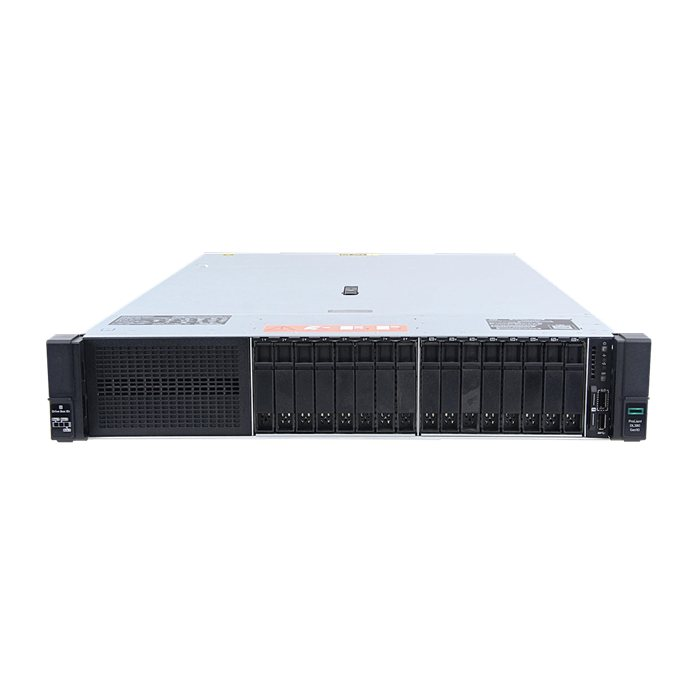
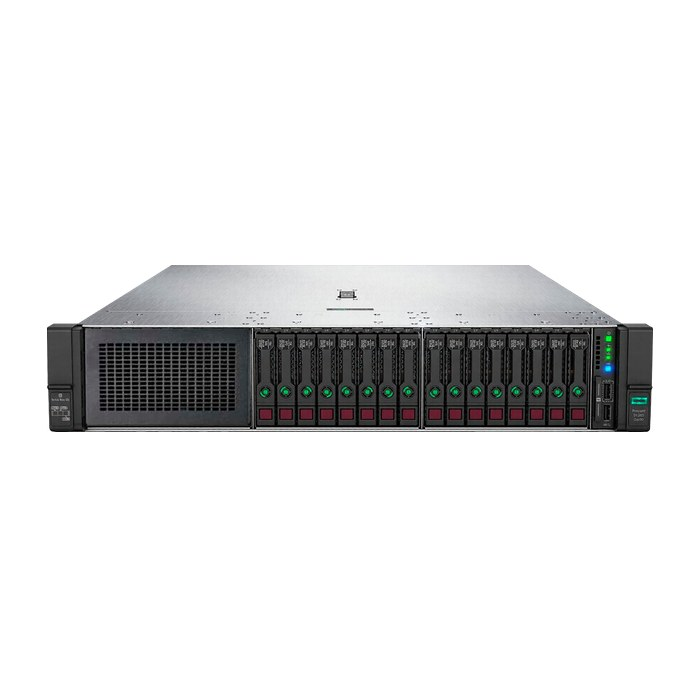
feat(home): hero claro com palavra que troca, destaques e seções repaginadas
- Hero novo: "Economize até 70% em servidores para [virtualização /
  banco de dados / backup / firewall / ERP]", entrada em fade com subida,
  R550 ao centro e R720XD + DL380 Gen10 entrando pelas bordas, com
  reflexo; luz de fundo muda a cada palavra; ocupa 95% da tela.
- Botão "Monte seu servidor" no azul do logo (#0066cc).
- "O que nos diferencia" vira destaques em abas (só texto, apoio em uma
  linha) com título "Sem surpresa. Sem risco."
- Nova seção "Para cada tipo de carga" (virtualização, banco de dados,
  backup, firewall) com WhatsApp por assunto.
- "Hardware original" e faixa final em versão clara, alinhadas à esquerda;
  os dois textos da origem viraram um parágrafo só.
- Fotos de produto do DL380 Gen10 (remaster) e do R720XD (tons ajustados
  para combinar com o R550).

Changed region(s): [[0.06, 0.36, 0.93, 0.63]]

diff --git a/index.html b/index.html
@@ -698,6 +698,146 @@
       .benefits-grid { grid-template-columns: 1fr; }
       .modal-box { padding: 32px 24px; }
     }
+
+    /* ─────────────── DESTAQUES ─────────────── */
+    .dq-section { background: var(--white); }
+    .dq-section .section-header { margin-bottom: 40px; }
+    .dq-tabs { display: inline-flex; flex-wrap: wrap; gap: 6px; padding: 6px; border-radius: 999px; background: var(--light); margin-bottom: 24px; }
+    .dq-tabs button { border: 0; background: transparent; color: var(--muted); font: 500 14px 'Inter', sans-serif; padding: 10px 18px; border-radius: 999px; cursor: pointer; transition: background .25s, color .25s, box-shadow .25s; }
+    .dq-tabs button:hover { color: var(--text); }
+    .dq-tabs button.on { background: #fff; color: var(--text); box-shadow: 0 2px 8px rgba(0,0,0,.08); }
+    .dq-stage { position: relative; height: 340px; border-radius: 28px; background: radial-gradient(ellipse at 50% 70%, #e3effc, var(--light) 70%); overflow: hidden; }
+    .dq-slide { position: absolute; inset: 0; margin: 0; display: flex; align-items: center; justify-content: center; padding: 40px 48px; opacity: 0; transform: translateY(16px) scale(.98); transition: opacity .6s ease, transform .9s cubic-bezier(.2,.7,.2,1); pointer-events: none; }
+    .dq-slide.on { opacity: 1; transform: none; pointer-events: auto; }
+    .dq-slide figcaption { text-align: center; max-width: 100%; }
+    .dq-slide figcaption b { display: block; font-size: clamp(34px, 4.6vw, 60px); font-weight: 800; letter-spacing: -0.045em; line-height: 1.05; color: var(--text); margin-bottom: 18px; }
+    .dq-slide figcaption span { display: block; font-size: clamp(17px, 1.6vw, 21px); line-height: 1.55; color: var(--muted); white-space: nowrap; margin: 0 auto; }
+
+    /* ─────────────── TIPOS DE CARGA ─────────────── */
+    .cg-section { background: var(--white); }
+    .cg-grid { display: grid; grid-template-columns: repeat(4, 1fr); gap: 12px; margin-top: 48px; }
+    .cg-card { display: flex; flex-direction: column; background: var(--light); border-radius: 20px; padding: 28px 24px 26px; text-decoration: none; transition: background .2s, transform .2s; }
+    .cg-card:hover { background: #ebf3fc; transform: translateY(-2px); }
+    .cg-ico { color: #0066cc; margin-bottom: 20px; }
+    .cg-card h3 { font-size: 19px; font-weight: 600; letter-spacing: -0.02em; color: var(--text); margin-bottom: 6px; }
+    .cg-card p { font-size: 14px; line-height: 1.6; color: var(--muted); flex: 1; margin-bottom: 16px; }
+    .cg-link { font-size: 14px; font-weight: 500; color: #0066cc; display: inline-flex; gap: 3px; transition: gap .15s; }
+    .cg-link::after { content: '›'; font-size: 17px; line-height: 1; }
+    .cg-card:hover .cg-link { gap: 6px; }
+
+    @media (max-width: 960px) {
+      .cg-grid { grid-template-columns: 1fr 1fr; }
+    }
+    @media (max-width: 600px) {
+      .cg-grid { grid-template-columns: 1fr; }
+      .dq-tabs { display: flex; flex-wrap: nowrap; overflow-x: auto; border-radius: 18px; scrollbar-width: none; }
+      .dq-tabs button { white-space: nowrap; }
+      .dq-stage { height: 300px; }
+      .dq-slide { padding: 28px 22px; }
+      .dq-slide figcaption span { white-space: normal; }
+    }
+
+    /* ─────────────── HERO: palavra que troca ─────────────── */
+    .hv { position: relative; height: 95vh; min-height: 700px; background: radial-gradient(ellipse 60% 26% at 50% 66%, rgba(231,241,253,1) 0%, rgba(231,241,253,0) 70%), linear-gradient(180deg, #ffffff 0%, #ffffff 35%, #f5f5f7 72%, #f5f5f7 100%); }
+    .hv-sticky { position: relative; height: 100%; overflow: hidden; display: flex; flex-direction: column; align-items: center; text-align: center; padding: calc(44px + 10vh) 24px 0; }
+    .hv-copy { position: relative; z-index: 3; will-change: transform, opacity; }
+    .hv-eyebrow { font-size: 13px; font-weight: 600; letter-spacing: .08em; text-transform: uppercase; color: var(--blue); margin-bottom: 16px; }
+    .hv-title { font-size: clamp(44px, 6.4vw, 88px); font-weight: 800; letter-spacing: -0.05em; line-height: 1.04; color: var(--text); margin-bottom: 18px; }
+    .hv-line { display: block; }
+    .hv-line2 { font-size: .62em; letter-spacing: -0.04em; margin-top: .12em; }
+    .hv-w { display: inline-block; overflow: hidden; vertical-align: bottom; padding: 0 .02em .1em; margin-bottom: -.1em; }
+    .hv-w > span { display: inline-block; }
+    .hv-grad { font-style: normal; }
+    .hv-title { animation: hvFade 1s cubic-bezier(.25,.8,.25,1) both .2s; }
+
+    .hv-rot { display: inline-grid; grid-template-columns: minmax(0, 1fr); transition: width .7s cubic-bezier(.2,.75,.2,1); vertical-align: bottom; clip-path: inset(0 -60vw); text-align: left; padding-bottom: .1em; margin-bottom: -.1em; }
+    .hv-rot-item { grid-area: 1 / 1; justify-self: center; color: #0066cc; transform: translateY(110%); opacity: 0; transition: transform .7s cubic-bezier(.2,.75,.2,1), opacity .7s ease; white-space: nowrap; }
+    .hv-rot-item.on { transform: none; opacity: 1; }
+    .hv-rot-item.out { transform: translateY(-110%); opacity: 0; }
+    @keyframes hvFadeOnly { to { opacity: 1; } }
+
+    .hv-sub { font-size: clamp(18px, 2vw, 22px); color: var(--muted); margin-bottom: 28px; }
+    .hv-ctas { display: flex; align-items: center; justify-content: center; gap: 28px; flex-wrap: wrap; }
+    .hv-btn { border: 0; font-family: inherit; cursor: pointer; background: #0066cc; color: #fff; }
+    .hv-btn:hover { background: #5bb8ff; color: #fff; }
+    .hv-link { color: var(--blue); font-size: 15px; text-decoration: none; display: inline-flex; gap: 3px; align-items: center; transition: gap .15s; }
+    .hv-link::after { content: '›'; font-size: 18px; }
+    .hv-link:hover { gap: 6px; }
+    .hv-fade { animation: hvFade 1s cubic-bezier(.25,.8,.25,1) both; animation-delay: var(--d, 0s); }
+    @keyframes hvFade { from { opacity: 0; transform: translateY(24px); } to { opacity: 1; transform: none; } }
+
+    .hv-prod { position: absolute; left: 50%; bottom: 13vh; width: min(1100px, 94vw); transform: translateX(-50%); z-index: 2; will-change: transform; }
+    .hv-prod { height: min(28vh, 280px); }
+    @property --lc { syntax: '<color>'; inherits: false; initial-value: rgba(0,102,204,.35); }
+    .hv-light { position: absolute; left: var(--lx, 50%); bottom: 18%; width: 90%; height: 160%; transform: translateX(-50%); background: radial-gradient(ellipse at center, var(--lc, rgba(0,102,204,.35)), transparent 62%); filter: blur(10px); transition: left 1.6s cubic-bezier(.2,.7,.2,1), --lc 1.4s ease; pointer-events: none; z-index: 0; }
+    .hv-pic { position: absolute; inset: 0; z-index: 1; display: flex; align-items: flex-end; justify-content: center; opacity: 0; transform: translateY(26px) scale(.95); transition: opacity .7s ease, transform .9s cubic-bezier(.2,.75,.2,1); pointer-events: none; }
+    .hv-pic.on { opacity: 1; transform: none; }
+    .hv-pic.out { opacity: 0; transform: translateY(-14px) scale(.97); }
+    .hv-pic img { position: relative; display: block; height: auto; max-height: 100%; -webkit-box-reflect: below 2px linear-gradient(transparent 70%, rgba(255,255,255,.25)); filter: drop-shadow(0 26px 30px rgba(10,46,92,.18)); animation: hvRise 1.5s cubic-bezier(.16,.8,.2,1) both .6s; }
+    .hv-pic img.hv-wide { width: 100%; }
+    .hv-main { left: 25%; right: 25%; }
+    /* laterais: mesma altura (são 2U), base alinhada, mesma faixa visível de cada lado */
+    .hv-side { position: absolute; bottom: 13%; z-index: 0; transform-origin: center bottom; opacity: 0; animation-duration: 1.7s; animation-timing-function: cubic-bezier(.16,.8,.2,1); animation-fill-mode: both; animation-delay: 1.1s; }
+    .hv-side { width: 41.8%; }
+    .hv-side img { display: block; width: 100%; height: auto; filter: brightness(.94) drop-shadow(0 18px 22px rgba(10,46,92,.14)); -webkit-box-reflect: below 2px linear-gradient(transparent 70%, rgba(255,255,255,.25)); }
+    .hv-side-l { left: 0; animation-name: hvSideL; }
+    .hv-side-r { right: 0; animation-name: hvSideR; }
+    @keyframes hvSideL { from { opacity: 0; transform: translateX(-60vw); } 30% { opacity: 1; } to { opacity: 1; transform: none; } }
+    @keyframes hvSideR { from { opacity: 0; transform: translateX(60vw); } 30% { opacity: 1; } to { opacity: 1; transform: none; } }
+    .hv-pic img.hv-small { width: 44%; }
+    .hv-pic img.hv-tall { width: auto; height: 100%; }
+    @keyframes hvRise { from { opacity: 0; transform: translateY(90px) scale(.96); } to { opacity: 1; transform: none; } }
+    .hv-caption { display: none; position: absolute; left: 0; right: 0; top: calc(44px + 14vh); z-index: 3; font-size: clamp(22px, 2.6vw, 32px); font-weight: 700; letter-spacing: -0.03em; color: var(--muted); opacity: 0; transform: translateY(20px); transition: opacity .6s ease, transform .6s ease; padding: 0 24px; }
+    .hv-caption b { color: var(--text); }
+    .hv-caption.on { opacity: 1; transform: none; }
+
+    @media (max-width: 600px) {
+      .hv { height: 95vh; }
+      .hv-prod { width: 96vw; bottom: 12vh; height: 26vh; }
+      .hv-line2 { font-size: .7em; }
+    }
+    @media (prefers-reduced-motion: reduce) {
+      .hv-side { animation: none; opacity: 1; }
+      .hv-side-l, .hv-side-r { transform: none; }
+      .hv { height: auto; }
+      .hv-sticky { position: relative; height: auto; min-height: 0; padding-bottom: 40vh; }
+      .hv-title, .hv-fade, .hv-pic img, .hv-rot { animation: none; transform: none; opacity: 1; }
+      .hv-caption { display: none; }
+    }
+
+    /* ─────────────── BLOCOS CLAROS ─────────────── */
+    .lt-block { background: var(--light) !important; }
+    .lt-block .eyebrow { color: var(--blue) !important; }
+    .lt-block .headline { color: var(--text) !important; }
+    .lt-block .body-text { color: var(--muted) !important; }
+    .lt-block .split-link { color: var(--blue) !important; }
+    .lt-block .split-box { background: #fff; border: 0; box-shadow: 0 20px 50px rgba(10,46,92,.08); }
+    .lt-block .split-box p { color: var(--muted); }
+    .lt-final { position: relative; overflow: hidden; background: radial-gradient(ellipse 60% 70% at 20% 120%, #dcebfc 0%, rgba(220,235,252,0) 70%), #fff !important; }
+    .lt-final > .wrap { position: relative; }
+    .lt-final .eyebrow { color: var(--blue) !important; }
+    .lt-final h2 { color: var(--text) !important; }
+    .lt-final .body-text { color: var(--muted) !important; }
+    .lt-final .cta-actions { justify-content: flex-start; }
+    .lt-final .btn-primary { background: #0066cc !important; color: #fff !important; }
+    .lt-final .btn-primary:hover { background: #5bb8ff !important; }
+    .lt-final .btn-secondary { color: var(--muted) !important; }
+    .lt-final .btn-secondary:hover { color: var(--text) !important; }
+
+    /* ─────────────── ORIGEM REPAGINADA ─────────────── */
+    .og-section { background: radial-gradient(ellipse 55% 60% at 15% 0%, #e7f1fd 0%, rgba(231,241,253,0) 70%), var(--light); }
+    .og-wrap { }
+    .og-section .headline { margin: 0 0 22px; }
+    .og-text { font-size: clamp(17px, 1.6vw, 20px); line-height: 1.7; color: var(--muted); max-width: 720px; margin: 0 0 28px; }
+    .og-points { display: grid; grid-template-columns: repeat(3, 1fr); gap: 14px; margin-bottom: 40px; }
+    .og-points div { background: #fff; border-radius: 20px; padding: 26px 22px; display: flex; flex-direction: column; align-items: flex-start; gap: 6px; box-shadow: 0 10px 30px rgba(10,46,92,.06); }
+    .og-points span { width: 44px; height: 44px; border-radius: 14px; background: #e3effc; color: #0066cc; display: flex; align-items: center; justify-content: center; margin-bottom: 8px; }
+    .og-points b { font-size: 17px; font-weight: 600; color: var(--text); letter-spacing: -0.01em; }
+    .og-points small { font-size: 14px; color: var(--muted); line-height: 1.5; }
+    .og-link { display: inline-flex; align-items: center; gap: 3px; color: #0066cc; font-size: 17px; text-decoration: none; transition: gap .15s; }
+    .og-link::after { content: '›'; font-size: 20px; }
+    .og-link:hover { gap: 7px; }
+    @media (max-width: 760px) { .og-points { grid-template-columns: 1fr; } }
   </style>
 </head>
 <body>
@@ -718,20 +858,29 @@
   </nav>
 
 <!-- HERO -->
-  <section class="hero" id="hero">
-    <div class="hero-scene" aria-hidden="true">
-      <div class="hero-scene-floor"></div>
-      <div class="hero-beam-container" id="heroBeamContainer"></div>
-    </div>
-    <p class="hero-eyebrow">Hardware enterprise seminovo</p>
-    <h1>Economize até 70%<br>em servidores.</h1>
-    <h2>Testados e prontos para produção.</h2>
-    <div class="hero-actions">
-      <button type="button" class="btn-primary btn-quiz" id="quizOpen">Monte seu servidor</button>
+  <section class="hv" id="hero" data-hv>
+    <div class="hv-sticky">
+      <div class="hv-copy">
+        <p class="hv-eyebrow hv-fade" style="--d:.05s">Hardware enterprise seminovo</p>
+        <h1 class="hv-title">
+          <span class="hv-line"><span class="hv-w"><span style="--i:0">Economize</span></span> <span class="hv-w"><span style="--i:1">até</span></span> <span class="hv-w"><span style="--i:2"><em class="hv-grad">70%</em></span></span></span>
+          <span class="hv-line hv-line2"><span class="hv-w"><span style="--i:3">em servidores para</span></span> <span class="hv-rot" aria-live="polite"><span class="hv-rot-item on">virtualização.</span><span class="hv-rot-item">banco de dados.</span><span class="hv-rot-item">backup.</span><span class="hv-rot-item">firewall.</span><span class="hv-rot-item">ERP.</span></span></span>
+        </h1>
+        <p class="hv-sub hv-fade" style="--d:.55s">Peça por peça, do jeito que sua empresa precisa.</p>
+        <div class="hv-ctas hv-fade" style="--d:.7s">
+          <button type="button" class="btn-primary btn-quiz hv-btn" id="quizOpen">Monte seu servidor</button>
+          <a href="https://wa.me/551120535313?text=Ol%C3%A1%21%20Vim%20pelo%20site%20da%20Super%20Servers%20e%20gostaria%20de%20falar%20com%20um%20especialista%20sobre%20servidores." target="_blank" class="hv-link">Falar no WhatsApp</a>
+        </div>
+      </div>
+      <div class="hv-prod">
+        <div class="hv-light" aria-hidden="true"></div>
+        <div class="hv-side hv-side-l"><img src="produtos/hero-r720xd.webp" alt="" width="936" height="270"></div>
+        <div class="hv-side hv-side-r"><img src="produtos/hero-dl380g10.webp" alt="" width="1034" height="285"></div>
+        <div class="hv-pic hv-main on"><img src="produtos/hero-r550.webp" alt="Servidor Dell PowerEdge em rack" class="hv-wide" width="912" height="263"></div>
+      </div>
+      <p class="hv-caption">Configurado sob medida. Testado por 72h. <b>Pronto para produção.</b></p>
     </div>
   </section>
-
-
 
 <!-- BENEFITS STRIP -->
   <div class="benefits-section">
@@ -821,48 +970,36 @@
     </div>
   </div>
 
-  <!-- DIFERENCIAIS -->
-  <section class="section eco-section" id="diferenciais">
+  <!-- DESTAQUES -->
+  <section class="section dq-section" id="diferenciais">
     <div class="wrap">
       <div class="section-header">
         <p class="eyebrow">Por que a Super Servers</p>
-        <h2 class="headline">O que nos diferencia.</h2>
+        <h2 class="headline">Sem surpresa. Sem risco.</h2>
       </div>
-      <div class="eco-grid">
-
-        <div class="eco-card" data-modal="garantia">
-          <svg class="eco-icon" viewBox="0 0 44 44" fill="none">
-            <path d="M22 4L38 10V22C38 31 30 38 22 41C14 38 6 31 6 22V10Z"
-              stroke="#0066cc" stroke-width="2" stroke-linejoin="round"/>
-            <path d="M15 22L19 26L29 16"
-              stroke="#0066cc" stroke-width="2.5" stroke-linecap="round" stroke-linejoin="round"/>
-          </svg>
-          <p class="eco-text">Todos os produtos com <span class="hl-green">12 meses de garantia</span> inclusa.</p>
-          <button class="eco-plus" aria-label="Saiba mais">+</button>
-        </div>
-
-        <div class="eco-card" data-modal="economia">
-          <svg class="eco-icon" viewBox="0 0 44 44" fill="none">
-            <path d="M26 4L11 26H19L18 40L33 18H25Z"
-              stroke="#0066cc" stroke-width="2" stroke-linecap="round" stroke-linejoin="round"/>
-          </svg>
-          <p class="eco-text">Servidores originais com <span class="hl-orange">até 70% de economia</span>.</p>
-          <button class="eco-plus" aria-label="Saiba mais">+</button>
-        </div>
-
-        <div class="eco-card" data-modal="producao">
-          <svg class="eco-icon" viewBox="0 0 44 44" fill="none">
-            <rect x="5" y="13" width="34" height="8" rx="2.5" stroke="#0066cc" stroke-width="2"/>
-            <rect x="5" y="24" width="34" height="8" rx="2.5" stroke="#0066cc" stroke-width="2"/>
-            <circle cx="34" cy="17" r="2" fill="#0066cc"/>
-            <circle cx="34" cy="28" r="2" fill="#0066cc"/>
-            <line x1="9" y1="17" x2="26" y2="17" stroke="#0066cc" stroke-width="1.8" stroke-linecap="round"/>
-            <line x1="9" y1="28" x2="26" y2="28" stroke="#0066cc" stroke-width="1.8" stroke-linecap="round"/>
-          </svg>
-          <p class="eco-text">Entregue <span class="hl-indigo">pronto para produção</span>: RAID, rede e SO configurados.</p>
-          <button class="eco-plus" aria-label="Saiba mais">+</button>
-        </div>
-
+      <div class="dq-tabs" role="tablist">
+        <button type="button" role="tab" class="on">Economia</button>
+        <button type="button" role="tab">Teste antes</button>
+        <button type="button" role="tab">72h de estresse</button>
+        <button type="button" role="tab">Garantia</button>
+        <button type="button" role="tab">Pronto para produção</button>
+      </div>
+      <div class="dq-stage">
+          <figure class="dq-slide on" role="tabpanel">
+            <figcaption><b>Até 70% de economia.</b><span>Servidores originais, com a mesma garantia de 12 meses.</span></figcaption>
+          </figure>
+          <figure class="dq-slide" role="tabpanel">
+            <figcaption><b>Teste antes de comprar.</b><span>Rode suas aplicações no servidor antes de fechar.</span></figcaption>
+          </figure>
+          <figure class="dq-slide" role="tabpanel">
+            <figcaption><b>72 horas de estresse.</b><span>CPU, memória ECC, RAID e firmware testados um a um.</span></figcaption>
+          </figure>
+          <figure class="dq-slide" role="tabpanel">
+            <figcaption><b>12 meses de garantia.</b><span>Equipamento completo coberto, sem custo extra.</span></figcaption>
+          </figure>
+          <figure class="dq-slide" role="tabpanel">
+            <figcaption><b>Pronto para produção.</b><span>RAID, rede e SO configurados. É só ligar na rede.</span></figcaption>
+          </figure>
       </div>
     </div>
   </section>
@@ -917,19 +1054,46 @@
     </div>
   </section>
 
-  <!-- SPLIT — números -->
-  <section class="section split-section">
+  <!-- ORIGEM -->
+  <section class="section og-section">
+    <div class="wrap og-wrap">
+      <p class="eyebrow">Origem verificada</p>
+      <h2 class="headline">Hardware original.<br>Sem asterisco.</h2>
+      <p class="og-text">Servidores de empresas que renovaram o parque tecnológico. Rodaram em ambiente corporativo, com manutenção em dia, e foram aposentados por upgrade, não por desgaste. Sem peças trocadas, sem recondicionamento: você recebe o equipamento como saiu da fábrica.</p>
+      <a href="sobre.html" class="og-link">Saiba mais sobre a Super Servers</a>
+    </div>
+  </section>
+
+  <!-- TIPOS DE CARGA -->
+  <section class="section cg-section" id="solucoes">
     <div class="wrap">
-      <div class="split-grid">
-        <div class="split-text">
-          <p class="eyebrow">Origem verificada</p>
-          <h2 class="headline">Hardware original.<br>Sem asterisco.</h2>
-          <p class="body-text">Servidores adquiridos de empresas que renovaram o parque tecnológico. Nada de peças trocadas, recondicionamento ou remendos. Você recebe o equipamento como saiu da fábrica.</p>
-          <a href="sobre.html" class="split-link">Saiba mais sobre a Super Servers</a>
-        </div>
-        <div class="split-box">
-          <p>Saber a origem muda tudo. São máquinas que rodaram em ambiente corporativo controlado, com manutenção em dia, e foram aposentadas por upgrade, não por desgaste. Você herda anos de vida útil de um equipamento que nunca foi levado ao limite.</p>
-        </div>
+      <p class="eyebrow">Soluções</p>
+      <h2 class="headline">Para cada tipo de carga.</h2>
+      <div class="cg-grid">
+        <a class="cg-card" href="https://wa.me/551120535313?text=Ol%C3%A1%21%20Vim%20pelo%20site%20da%20Super%20Servers%20e%20procuro%20um%20servidor%20para%20virtualiza%C3%A7%C3%A3o.%20Podem%20me%20enviar%20uma%20proposta%3F" target="_blank">
+          <span class="cg-ico"><svg viewBox="0 0 40 40" width="44" height="44" fill="none" stroke="currentColor" stroke-width="1.8" stroke-linecap="round" stroke-linejoin="round"><rect x="6" y="6" width="28" height="8" rx="2"/><rect x="6" y="16" width="28" height="8" rx="2"/><rect x="6" y="26" width="28" height="8" rx="2"/><path d="M11 10h4M11 20h4M11 30h4"/></svg></span>
+          <h3>Virtualização</h3>
+          <p>Núcleos e memória de sobra para VMs e containers.</p>
+          <span class="cg-link">Pedir proposta</span>
+        </a>
+        <a class="cg-card" href="https://wa.me/551120535313?text=Ol%C3%A1%21%20Vim%20pelo%20site%20da%20Super%20Servers%20e%20procuro%20um%20servidor%20para%20banco%20de%20dados/ERP.%20Podem%20me%20enviar%20uma%20proposta%3F" target="_blank">
+          <span class="cg-ico"><svg viewBox="0 0 40 40" width="44" height="44" fill="none" stroke="currentColor" stroke-width="1.8" stroke-linecap="round" stroke-linejoin="round"><ellipse cx="20" cy="9" rx="12" ry="4.5"/><path d="M8 9v22c0 2.5 5.4 4.5 12 4.5s12-2 12-4.5V9"/><path d="M8 16.5c0 2.5 5.4 4.5 12 4.5s12-2 12-4.5M8 24c0 2.5 5.4 4.5 12 4.5s12-2 12-4.5"/></svg></span>
+          <h3>Banco de dados e ERP</h3>
+          <p>Memória ECC e discos rápidos para operação contínua.</p>
+          <span class="cg-link">Pedir proposta</span>
+        </a>
+        <a class="cg-card" href="https://wa.me/551120535313?text=Ol%C3%A1%21%20Vim%20pelo%20site%20da%20Super%20Servers%20e%20procuro%20um%20servidor%20para%20armazenamento%20e%20backup.%20Podem%20me%20enviar%20uma%20proposta%3F" target="_blank">
+          <span class="cg-ico"><svg viewBox="0 0 40 40" width="44" height="44" fill="none" stroke="currentColor" stroke-width="1.8" stroke-linecap="round" stroke-linejoin="round"><rect x="5" y="7" width="30" height="8" rx="2"/><path d="M8 15v16a3 3 0 0 0 3 3h18a3 3 0 0 0 3-3V15"/><path d="M16 22h8"/></svg></span>
+          <h3>Armazenamento e backup</h3>
+          <p>Discos de alta capacidade para arquivos e retenção.</p>
+          <span class="cg-link">Pedir proposta</span>
+        </a>
+        <a class="cg-card" href="https://wa.me/551120535313?text=Ol%C3%A1%21%20Vim%20pelo%20site%20da%20Super%20Servers%20e%20procuro%20um%20servidor%20para%20firewall%20e%20rede.%20Podem%20me%20enviar%20uma%20proposta%3F" target="_blank">
+          <span class="cg-ico"><svg viewBox="0 0 40 40" width="44" height="44" fill="none" stroke="currentColor" stroke-width="1.8" stroke-linecap="round" stroke-linejoin="round"><path d="M20 4l13 5v10c0 8-6 14-13 17C13 33 7 27 7 19V9z"/><path d="M14 18h12M14 23h12M20 13v15"/></svg></span>
+          <h3>Firewall e rede</h3>
+          <p>Placas de rede dedicadas para segurança e tráfego.</p>
+          <span class="cg-link">Pedir proposta</span>
+        </a>
       </div>
     </div>
   </section>
@@ -1031,7 +1195,7 @@
   </section>
 
   <!-- CTA FINAL -->
-  <section class="cta-section">
+  <section class="cta-section lt-final">
     <div class="wrap">
       <p class="eyebrow">Entre em contato</p>
       <h2 class="headline">Pronto para reduzir seus custos de infraestrutura?</h2>
@@ -1494,6 +1658,67 @@
       }
     });
   });
+})();
+
+
+// ── DESTAQUES: abas com troca automática ──
+(function(){
+  var tabs = document.querySelectorAll('.dq-tabs button');
+  var slides = document.querySelectorAll('.dq-slide');
+  if(!tabs.length) return;
+  var reduce = window.matchMedia('(prefers-reduced-motion: reduce)').matches;
+  var cur = 0, timer = null;
+  function show(i){
+    cur = i;
+    tabs.forEach(function(t, k){ t.classList.toggle('on', k === i); t.setAttribute('aria-selected', k === i); });
+    slides.forEach(function(sl, k){ sl.classList.toggle('on', k === i); });
+  }
+  function start(){ clearInterval(timer); if(!reduce) timer = setInterval(function(){ show((cur + 1) % slides.length); }, 6000); }
+  tabs.forEach(function(t, i){ t.addEventListener('click', function(){ show(i); start(); }); });
+  new IntersectionObserver(function(es){ es.forEach(function(e){ if(e.isIntersecting) start(); else clearInterval(timer); }); }, {threshold: 0.4}).observe(document.querySelector('.dq-stage'));
+})();
+
+
+// ── HERO: palavra que troca + rolagem ──
+(function(){
+  var hv = document.querySelector('[data-hv]');
+  if(!hv) return;
+  var reduce = window.matchMedia('(prefers-reduced-motion: reduce)').matches;
+  var items = hv.querySelectorAll('.hv-rot-item'), cur = 0;
+  // a largura acompanha a palavra da vez, para a linha se recentralizar com suavidade
+  var rot = hv.querySelector('.hv-rot');
+  function fit(){ rot.style.width = items[cur].scrollWidth + 'px'; }
+  fit(); window.addEventListener('resize', fit);
+  if(document.fonts && document.fonts.ready) document.fonts.ready.then(fit);
+  if(!reduce){
+    setTimeout(function(){
+      setInterval(function(){
+        var prev = items[cur]; cur = (cur + 1) % items.length;
+        prev.classList.remove('on'); prev.classList.add('out');
+        items[cur].classList.remove('out'); items[cur].classList.add('on');
+        fit();
+        var L = [['50%','rgba(0,102,204,.35)'],['32%','rgba(91,184,255,.45)'],['68%','rgba(47,125,255,.35)'],['42%','rgba(0,163,196,.32)'],['58%','rgba(108,140,255,.38)']][cur];
+        var lg = hv.querySelector('.hv-light'); lg.style.setProperty('--lx', L[0]); lg.style.setProperty('--lc', L[1]);
+
+        setTimeout(function(){ prev.classList.remove('out'); }, 750);
+      }, 2200);
+    }, 1800);
+  }
+  if(reduce) return;
+  var copy = hv.querySelector('.hv-copy'), prod = hv.querySelector('.hv-prod'), cap = hv.querySelector('.hv-caption');
+  var ticking = false;
+  function frame(){
+    ticking = false;
+    var total = hv.offsetHeight;
+    var p = Math.min(1, Math.max(0, window.scrollY / total));
+    copy.style.transform = 'translateY(' + (-p * 80) + 'px)';
+    copy.style.opacity = Math.max(0, 1 - p * 2.2);
+    prod.style.transform = 'translateX(-50%) translateY(' + (-p * 14) + 'vh) scale(' + (1 + p * 0.14) + ')';
+    cap.classList.toggle('on', p > 0.55);
+  }
+  window.addEventListener('scroll', function(){ if(!ticking){ ticking = true; requestAnimationFrame(frame); } }, {passive: true});
+  window.addEventListener('resize', frame);
+  frame();
 })();
 
 // ── HAMBURGER NAV ──
